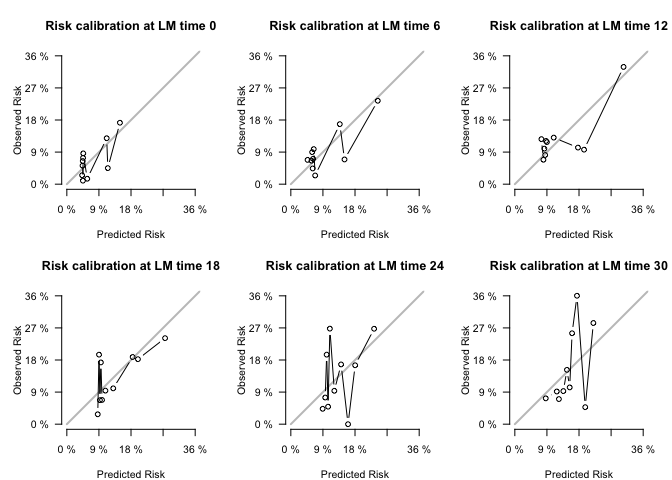
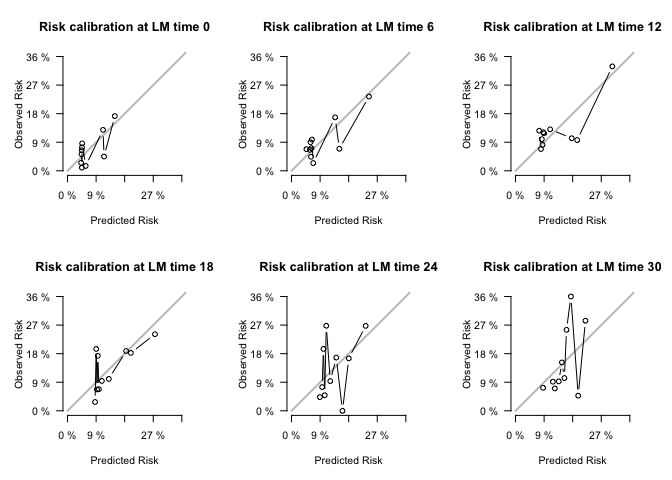
Update README to include plot(scores)

diff --git a/README.md b/README.md
@@ -77,16 +77,8 @@ You can install the development version of `dynamicLM` from
 ``` r
 # install.packages("devtools")
 devtools::install_github("thehanlab/dynamicLM", ref = "proposed-updates")
-#> Downloading GitHub repo thehanlab/dynamicLM@proposed-updates
-#> 
-#>      checking for file ‘/private/var/folders/r0/ckqbvqg52r53ct7wxr5yz50h0000gn/T/RtmpBHyW9e/remotes1b196eb4da0a/thehanlab-dynamicLM-1a31580/DESCRIPTION’ ...  ✔  checking for file ‘/private/var/folders/r0/ckqbvqg52r53ct7wxr5yz50h0000gn/T/RtmpBHyW9e/remotes1b196eb4da0a/thehanlab-dynamicLM-1a31580/DESCRIPTION’
-#>   ─  preparing ‘dynamicLM’:
-#>      checking DESCRIPTION meta-information ...  ✔  checking DESCRIPTION meta-information
-#>   ─  checking for LF line-endings in source and make files and shell scripts
-#>   ─  checking for empty or unneeded directories
-#>   ─  building ‘dynamicLM_0.3.0.tar.gz’
-#>      
-#> 
+#> Skipping install of 'dynamicLM' from a github remote, the SHA1 (26de31c4) has not changed since last install.
+#>   Use `force = TRUE` to force installation
 ```
 
 Requirements for the package can be found in the description file.
@@ -370,11 +362,11 @@ print(supermodel)
 #> $func_covars
 #> $func_covars$[[1]]
 #> function(t) t
-#> <bytecode: 0x10fd443a8>
+#> <bytecode: 0x121f486a0>
 #> 
 #> $func_covars$[[2]]
 #> function(t) t^2
-#> <bytecode: 0x10fcb8e70>
+#> <bytecode: 0x121fc6d50>
 #> 
 #> $func_lms
 #> $func_lms$[[1]]
@@ -464,8 +456,8 @@ between models. This list can be of supermodels or prediction objects
 (created by calling `predict()`).
 
 ``` r
-par(mfrow=c(2,3), pty="s", mar = c(4, 4, 4, 1))
-outlist <- calplot(list("Model1" = p1), 
+par(mfrow=c(2,3), pty="s")
+outlist <- calplot(list("LM supermodel" = p1), 
                     unit = "month",            # for the titles
                     times = c(0,6,12,18,24,30),# landmarks at which to provide calibration plots
                     method = "quantile", q=10, # method for calibration plot
@@ -488,7 +480,7 @@ Brier score (BSt).
   that time point.
 
 ``` r
-scores <- Score(list("Model1" = p1),
+scores <- Score(list("LM supermodel" = p1),
                      times = c(6,12,18,24), # landmarks at which to assess
                      unit = "month")        # for the print out
 scores
@@ -496,11 +488,11 @@ scores
 #> Metric: Time-dependent AUC for 60-month risk prediction
 #> 
 #> Results by model:
-#>    tLM  model    AUC  lower  upper
-#> 1:   6 Model1 61.808 51.891 71.726
-#> 2:  12 Model1 60.855 50.447 71.262
-#> 3:  18 Model1 61.374 51.034 71.714
-#> 4:  24 Model1 55.188 43.949 66.427
+#>    tLM         model    AUC  lower  upper
+#> 1:   6 LM supermodel 61.808 51.891 71.726
+#> 2:  12 LM supermodel 60.855 50.447 71.262
+#> 3:  18 LM supermodel 61.374 51.034 71.714
+#> 4:  24 LM supermodel 55.188 43.949 66.427
 #> NOTE: Values are multiplied by 100 and given in %.
 #> NOTE: The higher AUC the better.
 #> NOTE: Predictions are made at time tLM for 60-month risk
@@ -508,25 +500,29 @@ scores
 #> Metric: Time-dependent Brier Score for 60-month risk prediction
 #> 
 #> Results by model:
-#>    tLM      model  Brier lower  upper
-#> 1:   6 Null model  8.493 6.288 10.698
-#> 2:   6     Model1  8.141 6.017 10.266
-#> 3:  12 Null model 11.152 8.420 13.883
-#> 4:  12     Model1 10.639 7.945 13.333
-#> 5:  18 Null model 11.582 8.591 14.574
-#> 6:  18     Model1 11.163 8.246 14.081
-#> 7:  24 Null model 11.494 8.231 14.758
-#> 8:  24     Model1 11.467 8.247 14.687
+#>    tLM         model  Brier lower  upper
+#> 1:   6    Null model  8.493 6.288 10.698
+#> 2:   6 LM supermodel  8.141 6.017 10.266
+#> 3:  12    Null model 11.152 8.420 13.883
+#> 4:  12 LM supermodel 10.639 7.945 13.333
+#> 5:  18    Null model 11.582 8.591 14.574
+#> 6:  18 LM supermodel 11.163 8.246 14.081
+#> 7:  24    Null model 11.494 8.231 14.758
+#> 8:  24 LM supermodel 11.467 8.247 14.687
 #> NOTE: Values are multiplied by 100 and given in %.
 #> NOTE: The lower Brier the better.
 #> NOTE: Predictions are made at time tLM for 60-month risk
 ```
 
-These results can also be plot.
+These results can also be plot with point wise confidence intervals.
+Setting `se = FALSE` in plot excludes the intervals.
 
 ``` r
-# plot(scores)
+par(mfrow = c(1,2))
+plot(scores)
 ```
+
+<img src="man/figures/README-unnamed-chunk-19-1.png" width="100%" style="display: block; margin: auto;" />
 
 **Bootstrapping** can be performed by calling `calplot()` or `Score()`
 and setting the arguments `split.method = "bootcv"` and `B = 10` (or
@@ -600,7 +596,7 @@ plotrisk(supermodel, dat, format = "long", lm_col = "LM", id_col = "ID",
            ylim = c(0, 0.7), x.legend = "bottom", unit = "month")
 ```
 
-<img src="man/figures/README-plotRisk-1.png" width="100%" />
+<img src="man/figures/README-plotrisk-1.png" width="100%" />
 
 We can see that the male has a much higher and increasing 5-year risk of
 recurrence that peaks around 1 year, and then rapidly decreases. This
